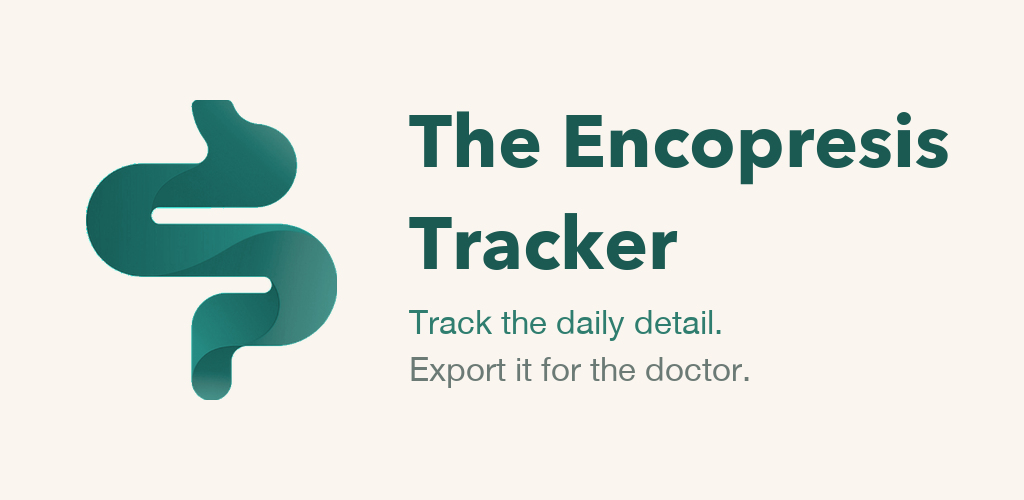
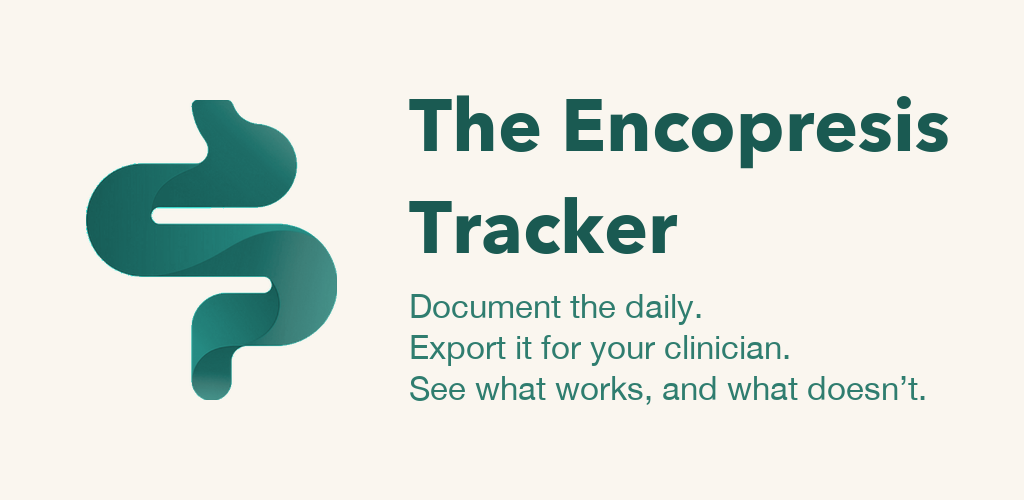
Rework the Play feature graphic tagline for the store listing
The old two-line tagline stopped at "export it for the doctor" and never
said what a parent actually gets out of the export. Replace it with three
beats in the order the app is used: document the daily, export it for your
clinician, see what works and what doesn't.

Also point the generator at the committed asset instead of /tmp, so the
documented regenerate command no longer leaves the uploaded graphic stale.

Changed region(s): [[0.375, 0.6, 0.9062, 0.81], [0.375, 0.18, 0.9375, 0.39], [0.375, 0.39, 0.6875, 0.54]]

diff --git a/store-assets/android/make-feature-graphic.py b/store-assets/android/make-feature-graphic.py
@@ -49,15 +49,24 @@ title_f = font(74, bold=True)
 sub_f = font(33)
 
 title_1, title_2 = "The Encopresis", "Tracker"
-sub_1 = "Track the daily detail."
-sub_2 = "Export it for the doctor."
+
+# Three beats in the order the app is actually used: log, export, compare.
+# Measured at 33px they come to 294/382/518px against a 530px column (the
+# title's own width is 541px), so none of them need wrapping.
+sub_1 = "Document the daily."
+sub_2 = "Export it for your clinician."
+sub_3 = "See what works, and what doesn\u2019t."
 
 # Lay the block out from its true measured height so it sits optically centered.
+# The three subtitle lines share one colour and a tight 10px gap so they read as
+# a single sequence; varying the colour mid-list would imply a hierarchy that
+# isn't there.
 lines = [
     (title_1, title_f, TEAL_DARK, 28),
     (title_2, title_f, TEAL_DARK, 40),
-    (sub_1, sub_f, TEAL_MID, 16),
-    (sub_2, sub_f, GREY, 0),
+    (sub_1, sub_f, TEAL_MID, 10),
+    (sub_2, sub_f, TEAL_MID, 10),
+    (sub_3, sub_f, TEAL_MID, 0),
 ]
 total = sum(
     draw.textbbox((0, 0), t, font=f)[3] - draw.textbbox((0, 0), t, font=f)[1] + gap
@@ -70,6 +79,8 @@ for text, f, color, gap in lines:
     draw.text((text_x - bb[0], y - bb[1]), text, font=f, fill=color)
     y += (bb[3] - bb[1]) + gap
 
-out = "/tmp/play-feature-graphic-1024x500.png"
+# Write the committed asset directly. Writing to /tmp meant the documented
+# regenerate command left the uploaded graphic stale.
+out = "/Users/fionabecker/Documents/encopresis-tracker/store-assets/android/feature-graphic-1024x500.png"
 canvas.save(out, "PNG")
 print("wrote", out, canvas.size)
